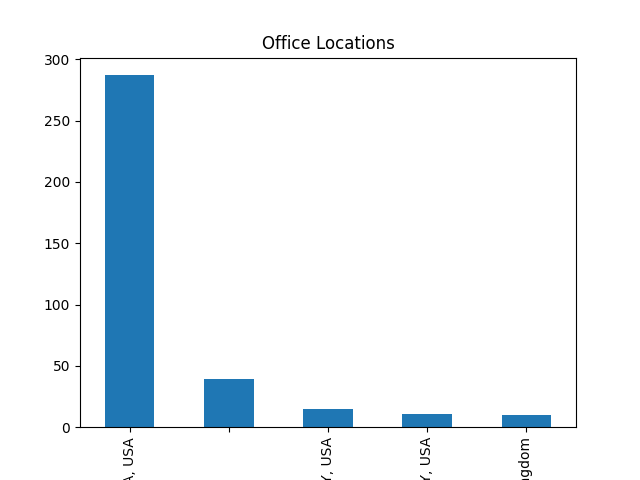
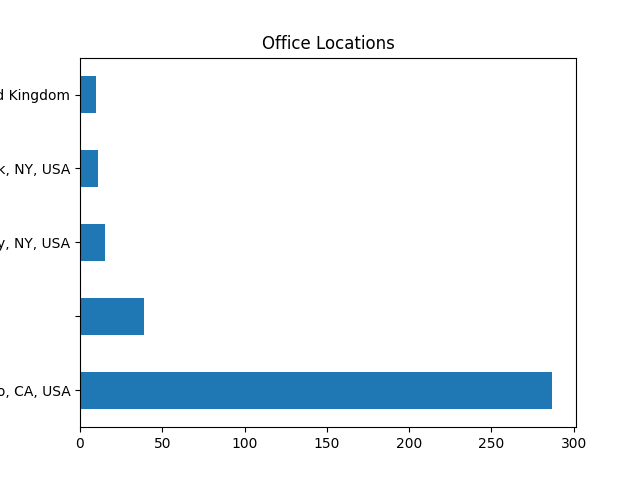
Added pie chat

diff --git a/main.py b/main.py
@@ -116,10 +116,12 @@
     [ai_count, non_ai_count],
     labels=["AI Startups", "Non-AI Startups"],
   )
-  plt.show
+  plt.title("AI vs Non-AI Startups")
+  plt.savefig("AI vs Non-AI.png")
+  plt.show()
   
   #Top industries plot
-  unique_ind_count.head(10).plot( kind="bar")
+  unique_ind_count.head(10).plot( kind="barh")
   plt.title("Top industries")
   plt.savefig("Top industries.png")
   plt.show()
@@ -132,14 +134,14 @@
   
   #teams size A
   teams = df["team_size"].value_counts()
-  teams.head(5).plot( kind="barh")
+  teams.head(5).plot( kind="bar")
   plt.title("Team Sizes")
   plt.savefig("Team Sizes.png")
   plt.show()
   
   #Locations
   locations = df["locations"].value_counts()
-  locations.head(5).plot( kind="bar")
+  locations.head(5).plot( kind="barh")
   plt.title("Office Locations")
   plt.savefig("Office Locations.png")
   plt.show()

diff --git a/Readme.md b/Readme.md
@@ -6,13 +6,11 @@ Scrape YC latest batch startups
         ↓
 Extract company data
         ↓
+Save JSON
+        ↓
 Store in pandas DataFrame
         ↓
 Analyze categories
         ↓
 Plot charts
-        ↓
-Save CSV
 
-
-"indexName":"YCCompany_production","params":"facetFilters=%5B%5B%22batch%3AFall%202026%22%2C%22batch%3AWinter%202027%22%5D%5D&facets=%5B%22app_answers%22%2C%22app_video_public%22%2C%22batch%22%2C%22demo_day_video_public%22%2C%22industries%22%2C%22isHiring%22%2C%22nonprofit%22%2C%22question_answers%22%2C%22regions%22%2C%22subindustry%22%2C%22top_company%22%5D&hitsPerPage=1000&maxValuesPerFacet=1000&page=0&query=&tagFilters="
